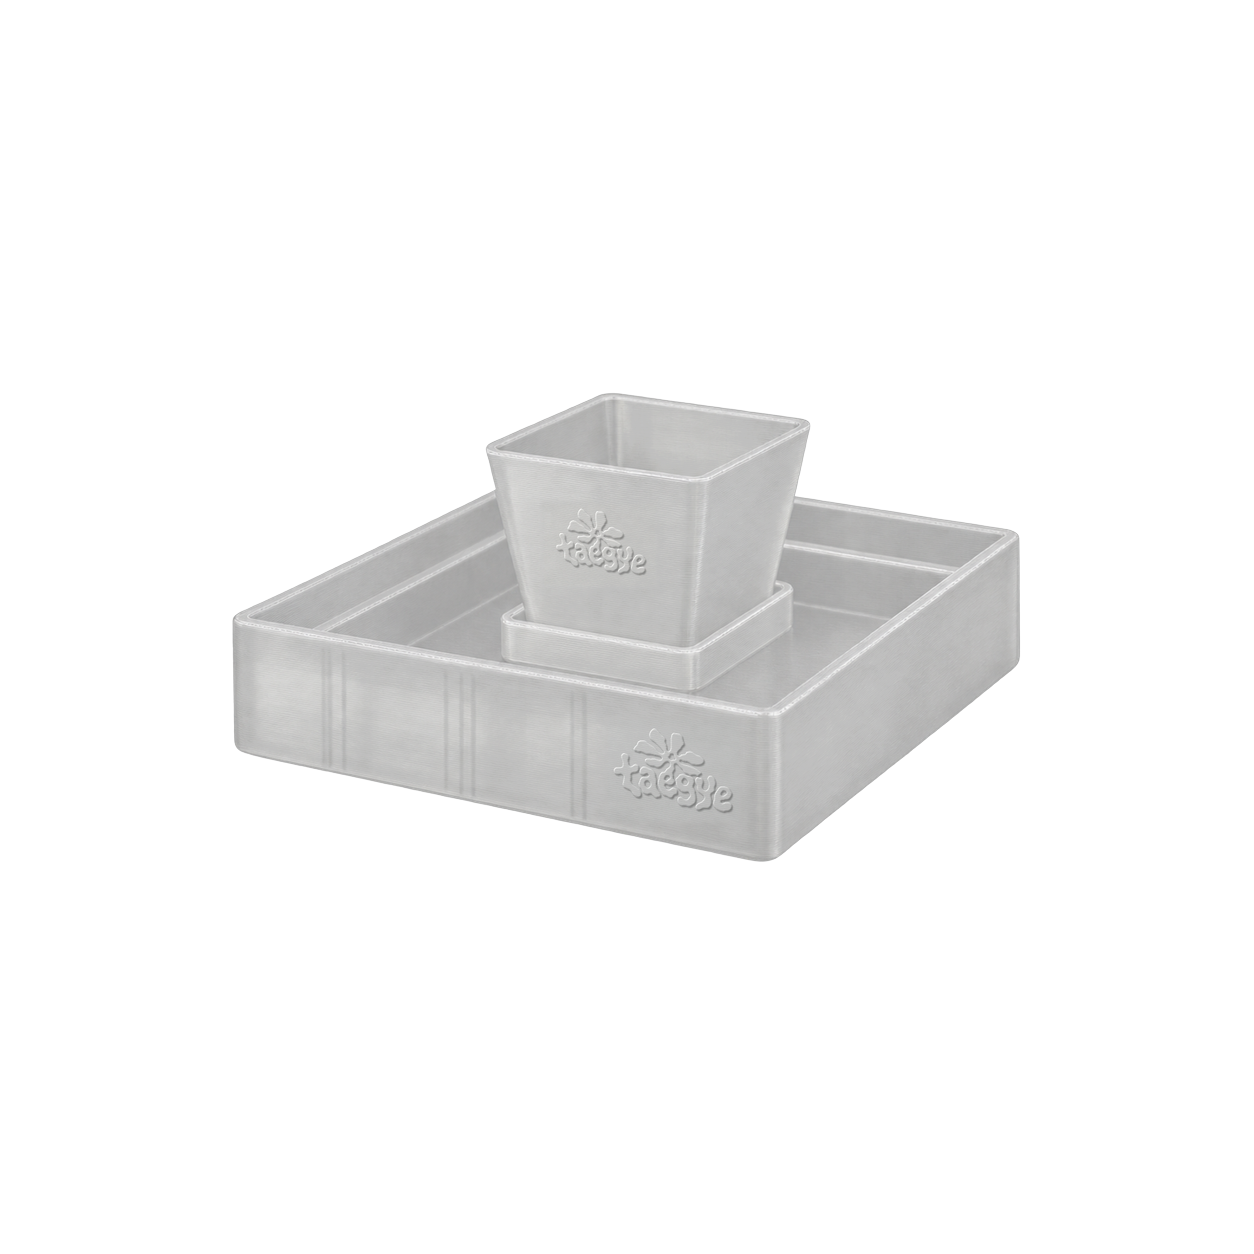
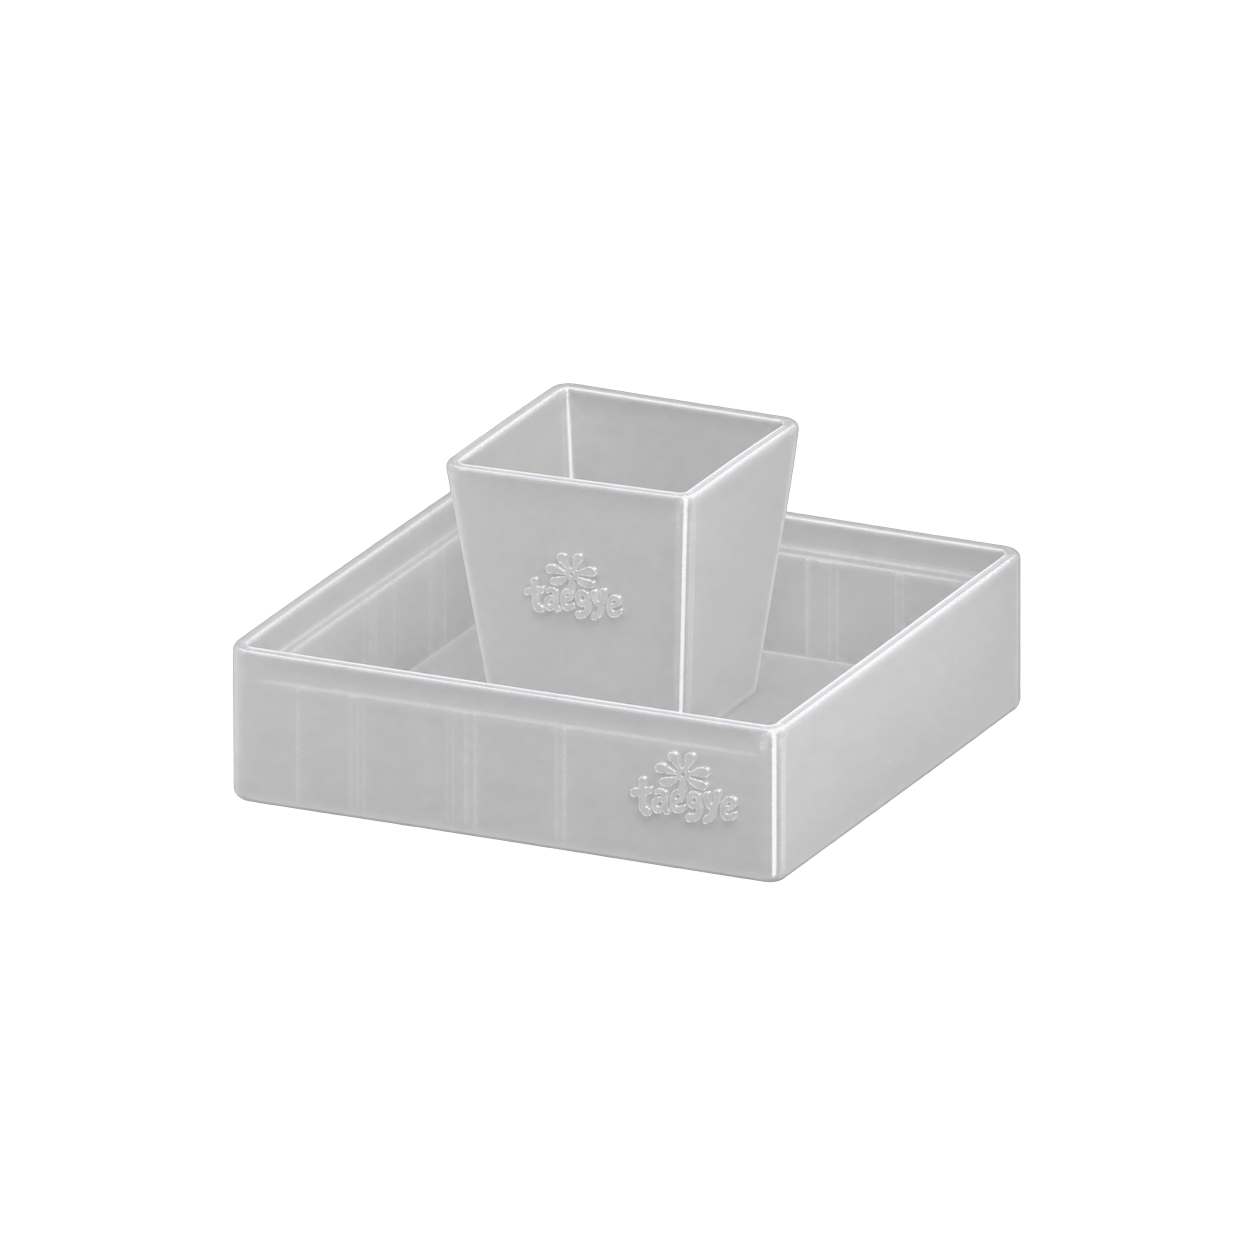
Replace One Port 141 with the square tray renders.
Empty and planted cuts stay on the 1254 square at the previous width. The description and features no longer mention a glass cover.

Changed region(s): [[0.1866, 0.2799, 0.8397, 0.7153]]

diff --git a/src/lib/site.ts b/src/lib/site.ts
@@ -241,7 +241,7 @@ export const PRODUCT_COPY = {
   "wall-kit":
     "Wall은 바닥과 수직 벽면을 모두 식재 공간으로 활용할 수 있도록 설계된 DIY 테라리움 키트입니다. 3D 프린팅으로 제작된 월 구조물에 이끼와 식물을 식재하고, 바닥에는 배양토와 자연 소재를 배치하여 입체적인 자연환경을 구성할 수 있습니다. 사용자의 취향에 따라 식물과 돌, 유목 등의 소재를 자유롭게 조합할 수 있으며, 시간이 지남에 따라 식물이 구조물에 자리 잡고 성장하면서 자연스럽게 변화하는 테라리움을 완성할 수 있습니다.",
   "mini-port":
-    "Oneport는 하나의 식물 포트와 유리 커버로 구성된 단일 식물 전용 온실입니다. 유리 커버를 통해 내부 습도를 유지하여 높은 습도를 필요로 하는 열대식물과 정글식물이 성장하기에 적합한 환경을 제공합니다. 하나의 식물을 독립적으로 관리할 수 있도록 설계되었으며, 식물의 형태와 성장 과정을 가까이에서 관찰할 수 있는 소형 온실입니다.",
+    "Oneport는 사각 트레이 안에 놓인 테이퍼진 사각 식물 포트입니다. 하나의 식물을 독립적으로 관리할 수 있도록 설계되었으며, 식물의 형태와 성장 과정을 가까이에서 관찰할 수 있습니다.",
   "one-port":
     "Starship은 어린 열대식물과 소형 정글식물을 독립적으로 재배할 수 있도록 설계된 미니 온실입니다. 하나의 식물 포트와 유리 커버로 구성되어 있으며, 작은 공간에서도 식물의 생육에 필요한 습도를 유지할 수 있도록 돕습니다. 발아 이후의 어린 식물부터 크기가 작은 열대식물까지 개별적으로 관리할 수 있으며, 식물의 성장 과정을 가까이에서 관찰할 수 있습니다. 컴팩트한 크기와 간결한 구조로 정글식물 재배를 처음 시작하는 사용자에게도 적합한 제품입니다.",
   cascade:
@@ -345,9 +345,9 @@ const PDP_FEATURES: Record<NewProductCategoryId, readonly [string, string, strin
     "식물과 돌, 유목을 자유롭게 조합",
   ],
   "mini-port": [
-    "식물 포트와 유리 커버로 된 단일 식물 온실",
-    "유리 커버로 내부 습도를 유지",
-    "열대식물과 정글식물을 가까이에서 관찰",
+    "사각 트레이 위의 테이퍼진 사각 식물 포트",
+    "하나의 식물을 독립적으로 관리",
+    "식물의 형태와 성장 과정을 가까이에서 관찰",
   ],
   "one-port": [
     "어린 열대식물과 소형 정글식물을 위한 미니 온실",
@@ -496,8 +496,8 @@ export const NEW_PRODUCTS: NewProduct[] = [
     dimensions: "",
     planting: "",
     price: MINI_PORT_HOLLOW_PRICE,
-    emptySrc: "/products/mini-port-hollow.png?v=4",
-    mossSrc: "/products/mini-port-hollow-planted.png?v=4",
+    emptySrc: "/products/mini-port-hollow.png?v=5",
+    mossSrc: "/products/mini-port-hollow-planted.png?v=5",
     emptyAlt: `TAEGYE One Port 141, ${finishLabel("HOLLOW")}`,
     mossAlt: `TAEGYE One Port 141, ${finishLabel("HOLLOW")} with plant`,
   },
@@ -510,8 +510,8 @@ export const NEW_PRODUCTS: NewProduct[] = [
     dimensions: "",
     planting: "",
     price: MINI_PORT_PRICE,
-    emptySrc: "/products/mini-port-purple.png?v=4",
-    mossSrc: "/products/mini-port-purple-planted.png?v=4",
+    emptySrc: "/products/mini-port-purple.png?v=5",
+    mossSrc: "/products/mini-port-purple-planted.png?v=5",
     emptyAlt: `TAEGYE One Port 141, ${finishLabel("ODD")}`,
     mossAlt: `TAEGYE One Port 141, ${finishLabel("ODD")} with plant`,
   },
@@ -524,8 +524,8 @@ export const NEW_PRODUCTS: NewProduct[] = [
     dimensions: "",
     planting: "",
     price: MINI_PORT_PRICE,
-    emptySrc: "/products/mini-port-black.png?v=4",
-    mossSrc: "/products/mini-port-black-planted.png?v=4",
+    emptySrc: "/products/mini-port-black.png?v=5",
+    mossSrc: "/products/mini-port-black-planted.png?v=5",
     emptyAlt: `TAEGYE One Port 141, ${finishLabel("VOID")}`,
     mossAlt: `TAEGYE One Port 141, ${finishLabel("VOID")} with plant`,
   },
@@ -538,8 +538,8 @@ export const NEW_PRODUCTS: NewProduct[] = [
     dimensions: "",
     planting: "",
     price: MINI_PORT_PRICE,
-    emptySrc: "/products/mini-port-white.png?v=4",
-    mossSrc: "/products/mini-port-white-planted.png?v=4",
+    emptySrc: "/products/mini-port-white.png?v=5",
+    mossSrc: "/products/mini-port-white-planted.png?v=5",
     emptyAlt: `TAEGYE One Port 141, ${finishLabel("MIST")}`,
     mossAlt: `TAEGYE One Port 141, ${finishLabel("MIST")} with plant`,
   },
